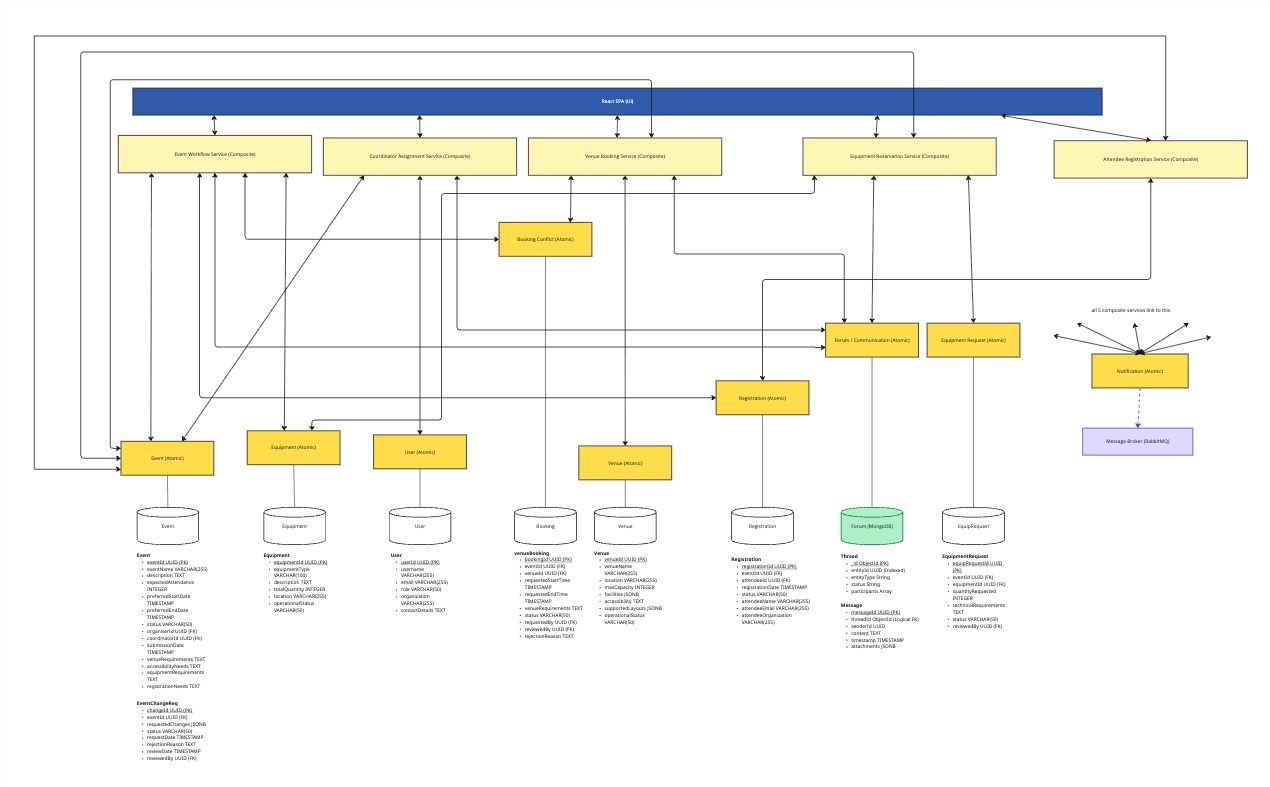
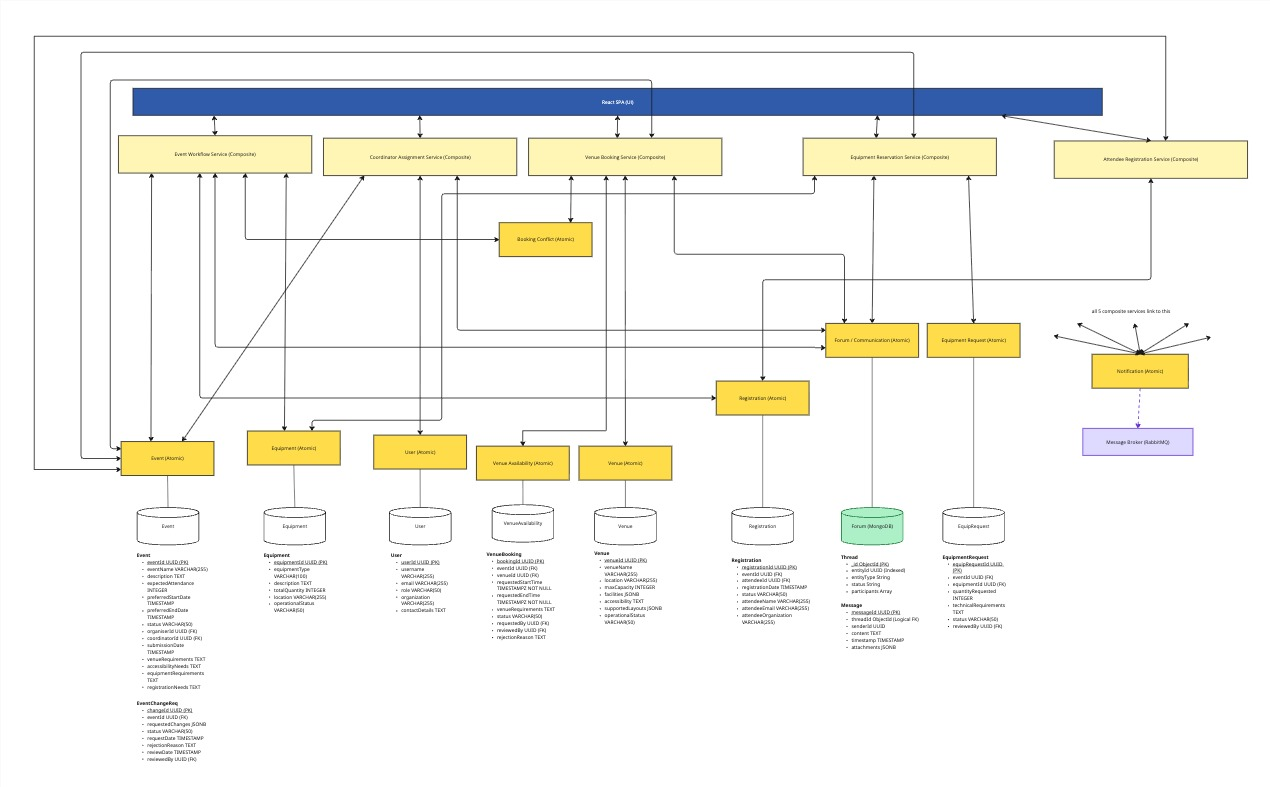
updated architecture diagram + standardised supabase database table name format

diff --git a/docs/supabase-setup.md b/docs/supabase-setup.md
@@ -38,17 +38,17 @@ only the DB password is a real secret.
 
 ## 3. Important: connect via `DATABASE_URL`, not the Supabase client
 
-Every table has Row Level Security (RLS) turned on with **no policies**
-defined yet. That means:
+The supplied schema export does **not** include RLS settings, policies or
+role grants. Their current state has not been verified; do not assume that
+an anonymous Supabase client can read these tables, or that RLS protects
+requests made through a privileged backend connection.
 
-- If you connect with `DATABASE_URL` (the `postgres` role) — RLS doesn't
-  apply to this role. Full read/write access, works normally.
-- If you use the Supabase client library (`supabase-py`, JS client, or the
-  REST API) with `SUPABASE_ANON_KEY` — every query returns zero rows and
-  every write is rejected, because RLS defaults to deny with no policies.
-
-So for now, always use `DATABASE_URL` with a regular Postgres driver/ORM,
-not the Supabase SDK, to read or write these tables.
+The existing backend pattern is `DATABASE_URL` with a Postgres driver.
+Keep that connection server-side. A privileged `postgres` connection can
+bypass RLS, so the availability API must independently verify authentication
+and allow only Event Coordinators, Venue Staff and Technical Support Staff.
+Do not trust the frontend role switcher or a caller-supplied role.
+Inspect live policies and grants before enabling direct browser data access.
 
 ## 4. Add a Postgres driver to your service
 
@@ -63,21 +63,104 @@ uv add sqlalchemy psycopg2-binary
 
 ## 5. The tables
 
-All 8 tables live in the **public** schema of the `is212-g7t4` project (ref
-`gjrbkvljlvroghwvhjtc`). Full column definitions are in
-[`database/supabase/migrations/20260912150524_create_service_tables.sql`](../database/supabase/migrations/20260912150524_create_service_tables.sql)
-— that file is the source of truth; the summary below is just an index.
+The eight tables below are documented from the user-supplied Supabase
+context-only schema export reviewed on 2026-09-23. This is **schema review,
+not a live database or application integration verification**. Do not execute
+that export as a migration. The previously linked migration
+`20260912150524_create_service_tables.sql` is absent from this checkout.
 
-| Table | Owning service | Key columns |
+The export spells table names in PascalCase. PostgreSQL folds unquoted
+identifiers to lowercase, so use double quotes for the intended mixed-case
+names (for example `public."VenueBooking"`). Because the context export omits
+those quotes, confirm the exact stored names before deploying:
+
+```sql
+SELECT table_name
+FROM information_schema.tables
+WHERE table_schema = 'public' AND table_type = 'BASE TABLE'
+ORDER BY table_name;
+```
+
+| Exported table name / intended SQL identifier | Owning service | Key columns |
 |---|---|---|
-| `event_service` | Event | `event_id` (PK), `event_name`, `status`, `organiser_id`/`coordinator_id` → `user_service.user_id` |
-| `event_changereq` | Event (change requests) | `change_id` (PK), `event_id` → `event_service`, `reviewed_by` → `user_service` |
-| `equipment_service` | Equipment | `equipment_id` (PK), `equipment_type`, `total_quantity` |
-| `user_service` | User | `user_id` (PK), `username`, `email`, `role` |
-| `booking_service` | Booking Conflict | `booking_id` (PK), `event_id`/`venue_id`/`requested_by`/`reviewed_by` (FKs) |
-| `venue_service` | Venue | `venue_id` (PK), `venue_name`, `max_capacity`, `facilities` (jsonb) |
-| `registration_service` | Registration | `registration_id` (PK), `event_id`/`attendee_id` (FKs) |
-| `equipment_request` | Equipment Availability | `equipment_request_id` (PK), `event_id`/`equipment_id`/`reviewed_by` (FKs) |
+| `public."Event"` | Event | `event_id` (PK), `event_name`, `status`, `organiser_id`, `coordinator_id` |
+| `public."EventChangeReq"` | Event | `change_id` (PK), `event_id`, `requested_changes` (jsonb), `reviewed_by` |
+| `public."Equipment"` | Equipment | `equipment_id` (PK), `equipment_type`, `total_quantity` |
+| `public."User"` | User | `user_id` (PK), `username`, `email`, `role`, `manager_id` (self-reference) |
+| `public."VenueBooking"` | **Venue Availability** | `booking_id` (PK), `event_id`, `venue_id`, `requested_start_time`, `requested_end_time`, `status`, `requested_by`, `reviewed_by` |
+| `public."Venue"` | Venue | `venue_id` (PK), `venue_name`, `max_capacity`, `facilities` (jsonb), `supported_layouts` (jsonb), `operational_status` |
+| `public."Registration"` | Registration | `registration_id` (PK), `event_id`, `attendee_id` |
+| `public."EquipmentRequest"` | Equipment Availability | `equipment_request_id` (PK), `event_id`, `equipment_id`, `quantity_requested`, `reviewed_by` |
+
+### Venue Availability ownership and this sprint's scope
+
+Venue Availability now owns both booking records and conflict checking.
+There is no separate Booking Conflict atomic service or duplicate booking
+table in the agreed design. Conflict is calculated from venue, time range
+and status; no stored `conflict` column is needed. Venue Service continues
+to own the catalogue. The older separation described in `INDEX.md`,
+`AGENTS.md`, and the architecture documents needs a coordinated follow-up
+update; it is not the current ownership decision.
+
+`VenueBooking` supplies the fields needed for a booking-based day/week/month
+calendar and overlap detection. All three internal roles can inspect ranges
+and choose one venue from a simple selector. Venue search/filtering and
+booking submission are separate work, not prerequisites for this read UI.
+Approved bookings block selection; pending requests are displayed but do
+not block. Rejected/cancelled requests do not block. These are agreed rules,
+not verified existing database status values.
+
+Scheduled maintenance/operational blocks (`venueBlock`) are **deferred to
+next sprint**. The current schema cannot represent those intervals.
+`Venue.operational_status` is not a substitute for a dated block. This sprint
+therefore covers booking-based availability only, not the original plan's
+recorded operational-block coverage. Record that scope reduction in Jira;
+do not claim the full Week 4 unavailability requirement is complete.
+
+### Schema sufficiency and implementation prerequisites
+
+| Check | Supplied schema | Required handling |
+|---|---|---|
+| Booking identity and relationships | UUID PK; FKs to Event, Venue and User | Existing references support the model; foreign-key columns remain nullable. |
+| Booking range | Both fields are `timestamp without time zone`, nullable | Agree/document a timezone convention. Prefer a reviewed migration to `TIMESTAMPTZ`; conversion must explicitly use the verified timezone of existing data. |
+| Required values | Only `booking_id` is `NOT NULL` | Require venue, event, requester, start, end and status in write validation; audit/backfill before adding DB `NOT NULL` constraints. Never silently treat malformed rows as free time. |
+| Range validity | No end-after-start check shown | Validate end > start; add a DB CHECK after auditing existing data. |
+| Status | Unconstrained nullable varchar | Inspect distinct live values and agree one canonical enum/check before mapping approved/pending states. |
+| Concurrent approvals | No overlap exclusion constraint shown | Recheck and save under a transaction-safe per-venue lock or equivalent DB enforcement. Every blocking write must follow the same rule. |
+| Query performance | PKs shown; secondary indexes not supplied | Inspect live indexes; add a venue/time-range index if needed. |
+| Internal-only access | User role field exists; JWT linkage/policies not established by this export | Integrate real auth and enforce server-side roles; test direct external-user API denial. |
+
+No new booking columns are required for basic conflict computation. However,
+the schema alone does not enforce valid intervals, canonical statuses or
+no-double-booking, and it does not implement authentication or calendar APIs.
+An approved event is not automatically an approved venue booking.
+
+Query intervals as start-inclusive, end-exclusive: an overlap exists when
+`existing_start < range_end AND existing_end > range_start`. Exclude the
+current booking ID when checking an edit. For calendar reads, return pending
+records as well as approved records; only approved records block selection.
+
+Example parameterized read (assuming the intended quoted table name has
+been confirmed). Bind timezone-naive boundaries using the agreed convention
+while the database retains `timestamp without time zone`:
+
+```sql
+SELECT booking_id, venue_id, requested_start_time, requested_end_time, status
+FROM public."VenueBooking"
+WHERE venue_id = %s
+  AND requested_start_time < %s  -- visible range end
+  AND requested_end_time > %s    -- visible range start
+ORDER BY requested_start_time, booking_id;
+```
+
+### Existing application compatibility
+
+The checked-out Event Service still queries `public.event_service`, and
+other source references may also use legacy names. If the exported renames
+are already applied and no compatibility views exist, those queries will
+fail. Coordinate a separate code update (or an explicitly agreed temporary
+compatibility migration) before claiming the running app matches this schema.
+This documentation update does not rename tables or modify application SQL.
 
 There is **no Postgres-level schema wall** between services — all tables
 share `public`, so the database itself won't stop your service from
@@ -98,7 +181,7 @@ def get_connection():
 # Example: read from the table your service owns
 with get_connection() as conn:
     with conn.cursor() as cur:
-        cur.execute("select event_id, event_name, status from event_service limit 10;")
+        cur.execute("select event_id, event_name, status from public.\"Event\" limit 10;")
         rows = cur.fetchall()
 ```
 
@@ -108,7 +191,9 @@ with get_connection() as conn:
 ## 7. If you need to change the schema (add columns, add a table)
 
 This requires the Supabase CLI, which is already scaffolded in this repo
-under `database/supabase/` (`config.toml`, `migrations/`). The CLI expects
+under `database/supabase/` (`config.toml` exists; no migration SQL is present
+in this checkout). Recover/version the existing schema baseline before
+applying new migrations. The CLI expects
 its `supabase/` folder to be in your current directory, so run these from
 `database/`, not the repo root:
 
